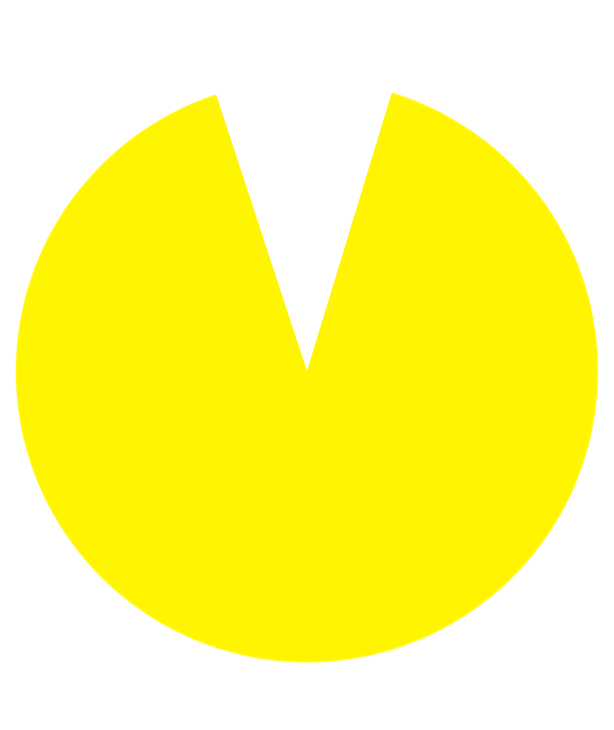
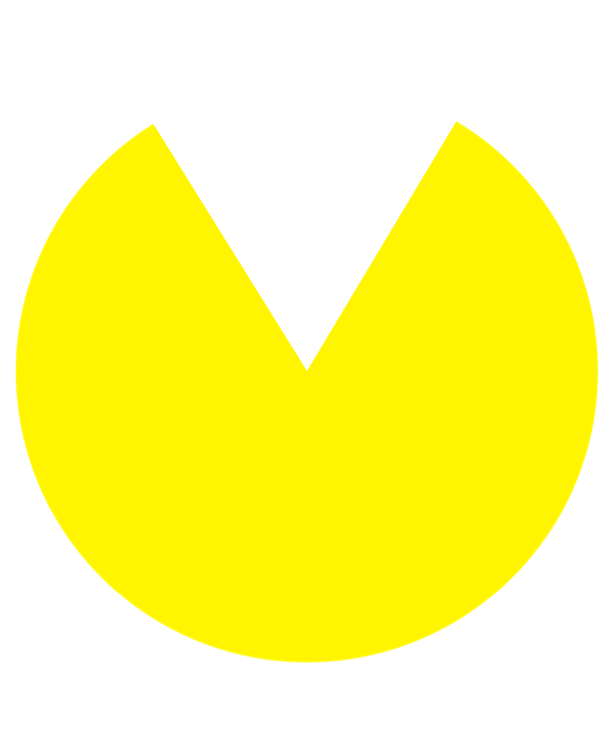
Created arrat to control animation

Changed region(s): [[0.2476, 0.1205, 0.7427, 0.5123]]

diff --git a/PacMan/PacMan.java b/PacMan/PacMan.java
@@ -32,6 +32,7 @@ public class PacMan implements ImageObserver {
 					coorYTemp,
 					velocidad;
 	private int[][] matrizPista;
+	private int[] arrayAnimacionMuerte;
 				  
 	public PacMan(int xPac, int yPac, double anchoPista, double altoPista, int[][] matrizPista) {
 		this.xPac = xPac;
@@ -56,6 +57,7 @@ public class PacMan implements ImageObserver {
 		this.pacManTemp = this.pacManAbierto1;
 		this.muerto = false;
 		this.contadorMuertePacManInicial = 0;
+		this.arrayAnimacionMuerte = new int[] {0,1,2,3,4,5,6,-1,-1,7,8,9,10,11,12,8,9,10,11,13,-1};
 	}
 
 	public void setXPac(int xPac){
@@ -129,15 +131,15 @@ public class PacMan implements ImageObserver {
 		if (this.coorYTemp < 14) ajusteY = 3*(this.anchoPista/52)/(20-(this.coorYTemp/3));
 		double ajusteX = 1.0;
 		if (this.coorXTemp > 26) ajusteX = 1.5;
-		if (!this.muerto) g.drawImage(this.pacManTemp, xPac - (int)(.2*ajusteX*this.anchoPista/52), yPac - (int)(-ajusteY + .6*this.anchoPista/52), (int)(1.725*this.anchoPista/52), (int)(1.95*this.anchoPista/52), this);
+		g.drawImage(this.pacManTemp, xPac - (int)(.2*ajusteX*this.anchoPista/52), yPac - (int)(-ajusteY + .6*this.anchoPista/52), (int)(1.725*this.anchoPista/52), (int)(1.95*this.anchoPista/52), this);
 		//g.setColor(Color.RED);
 		//g.fillRect(xPac, yPac,(int)(this.anchoPista/52) , (int)(this.anchoPista/52));
 	}
 
 	public boolean animarMuerte(Graphics g, int contador) {
 		System.out.println(contador - this.contadorMuertePacManInicial);
-		if (contador - this.contadorMuertePacManInicial < 200){
-			g.fillRect(xPac, yPac,(int)(this.anchoPista/52) , (int)(this.anchoPista/52));
+		if (contador - this.contadorMuertePacManInicial < 105){
+			this.pacManTemp = new ImageIcon("PacMan-muerto"+this.arrayAnimacionMuerte[(contador - this.contadorMuertePacManInicial)/5]+".png").getImage();
 			return true;
 		}
 		return false; //Indica que pacman ya revivio
